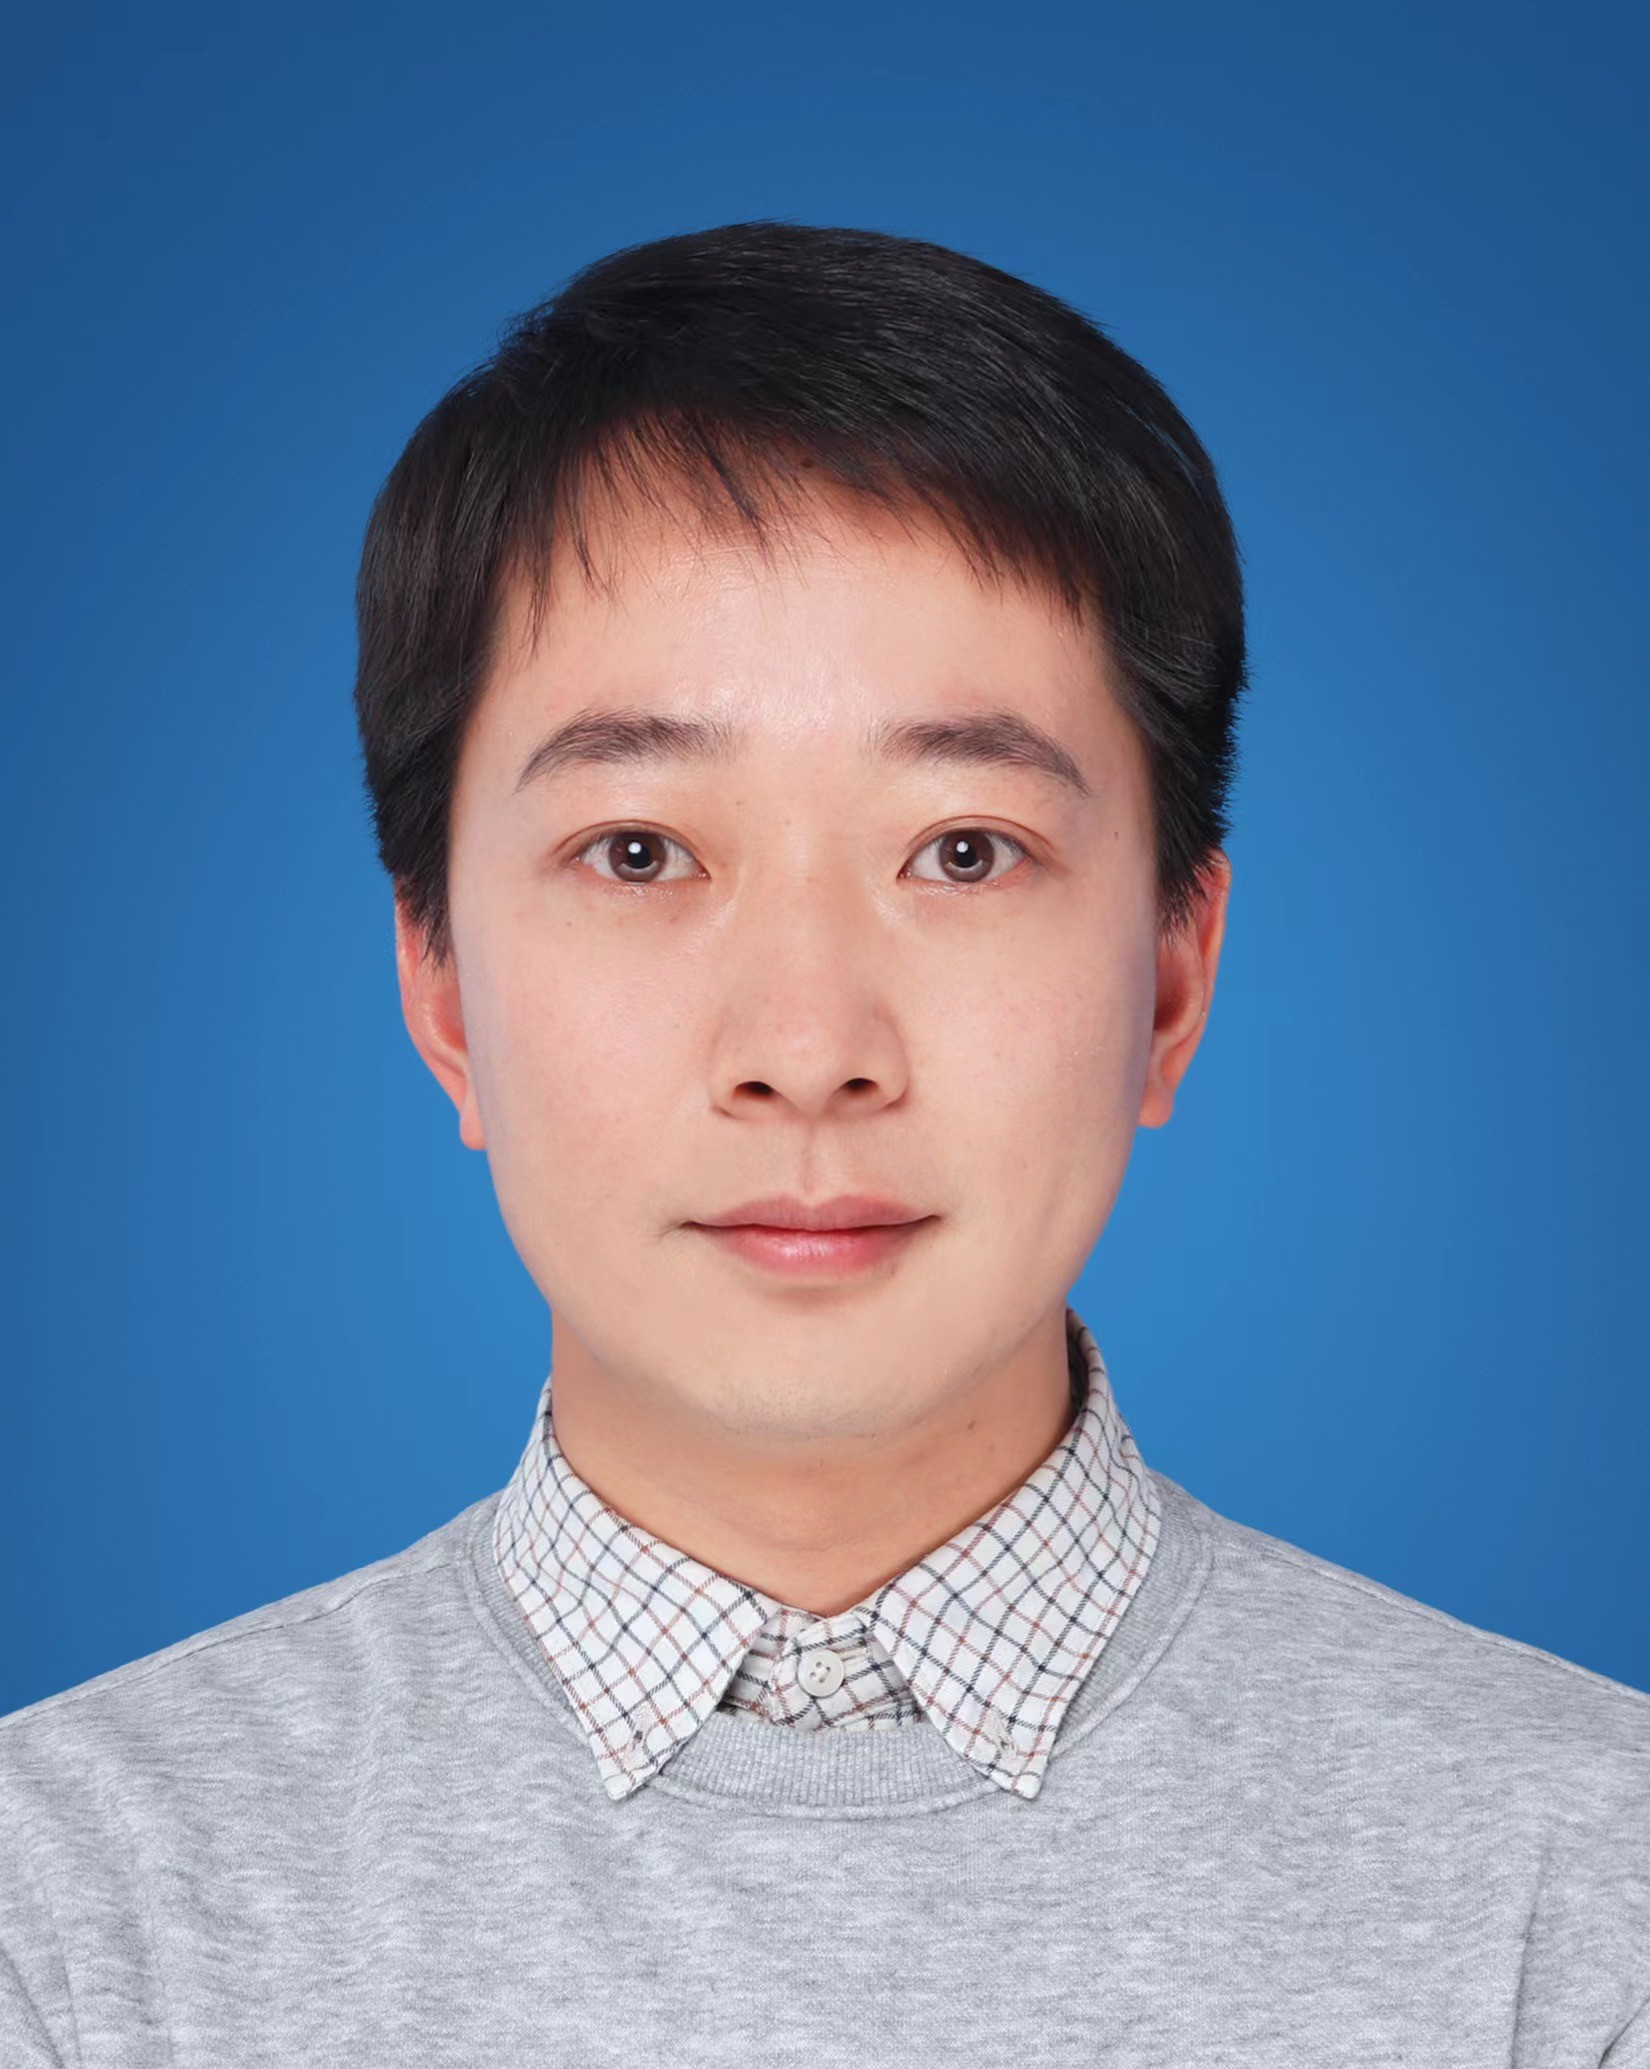
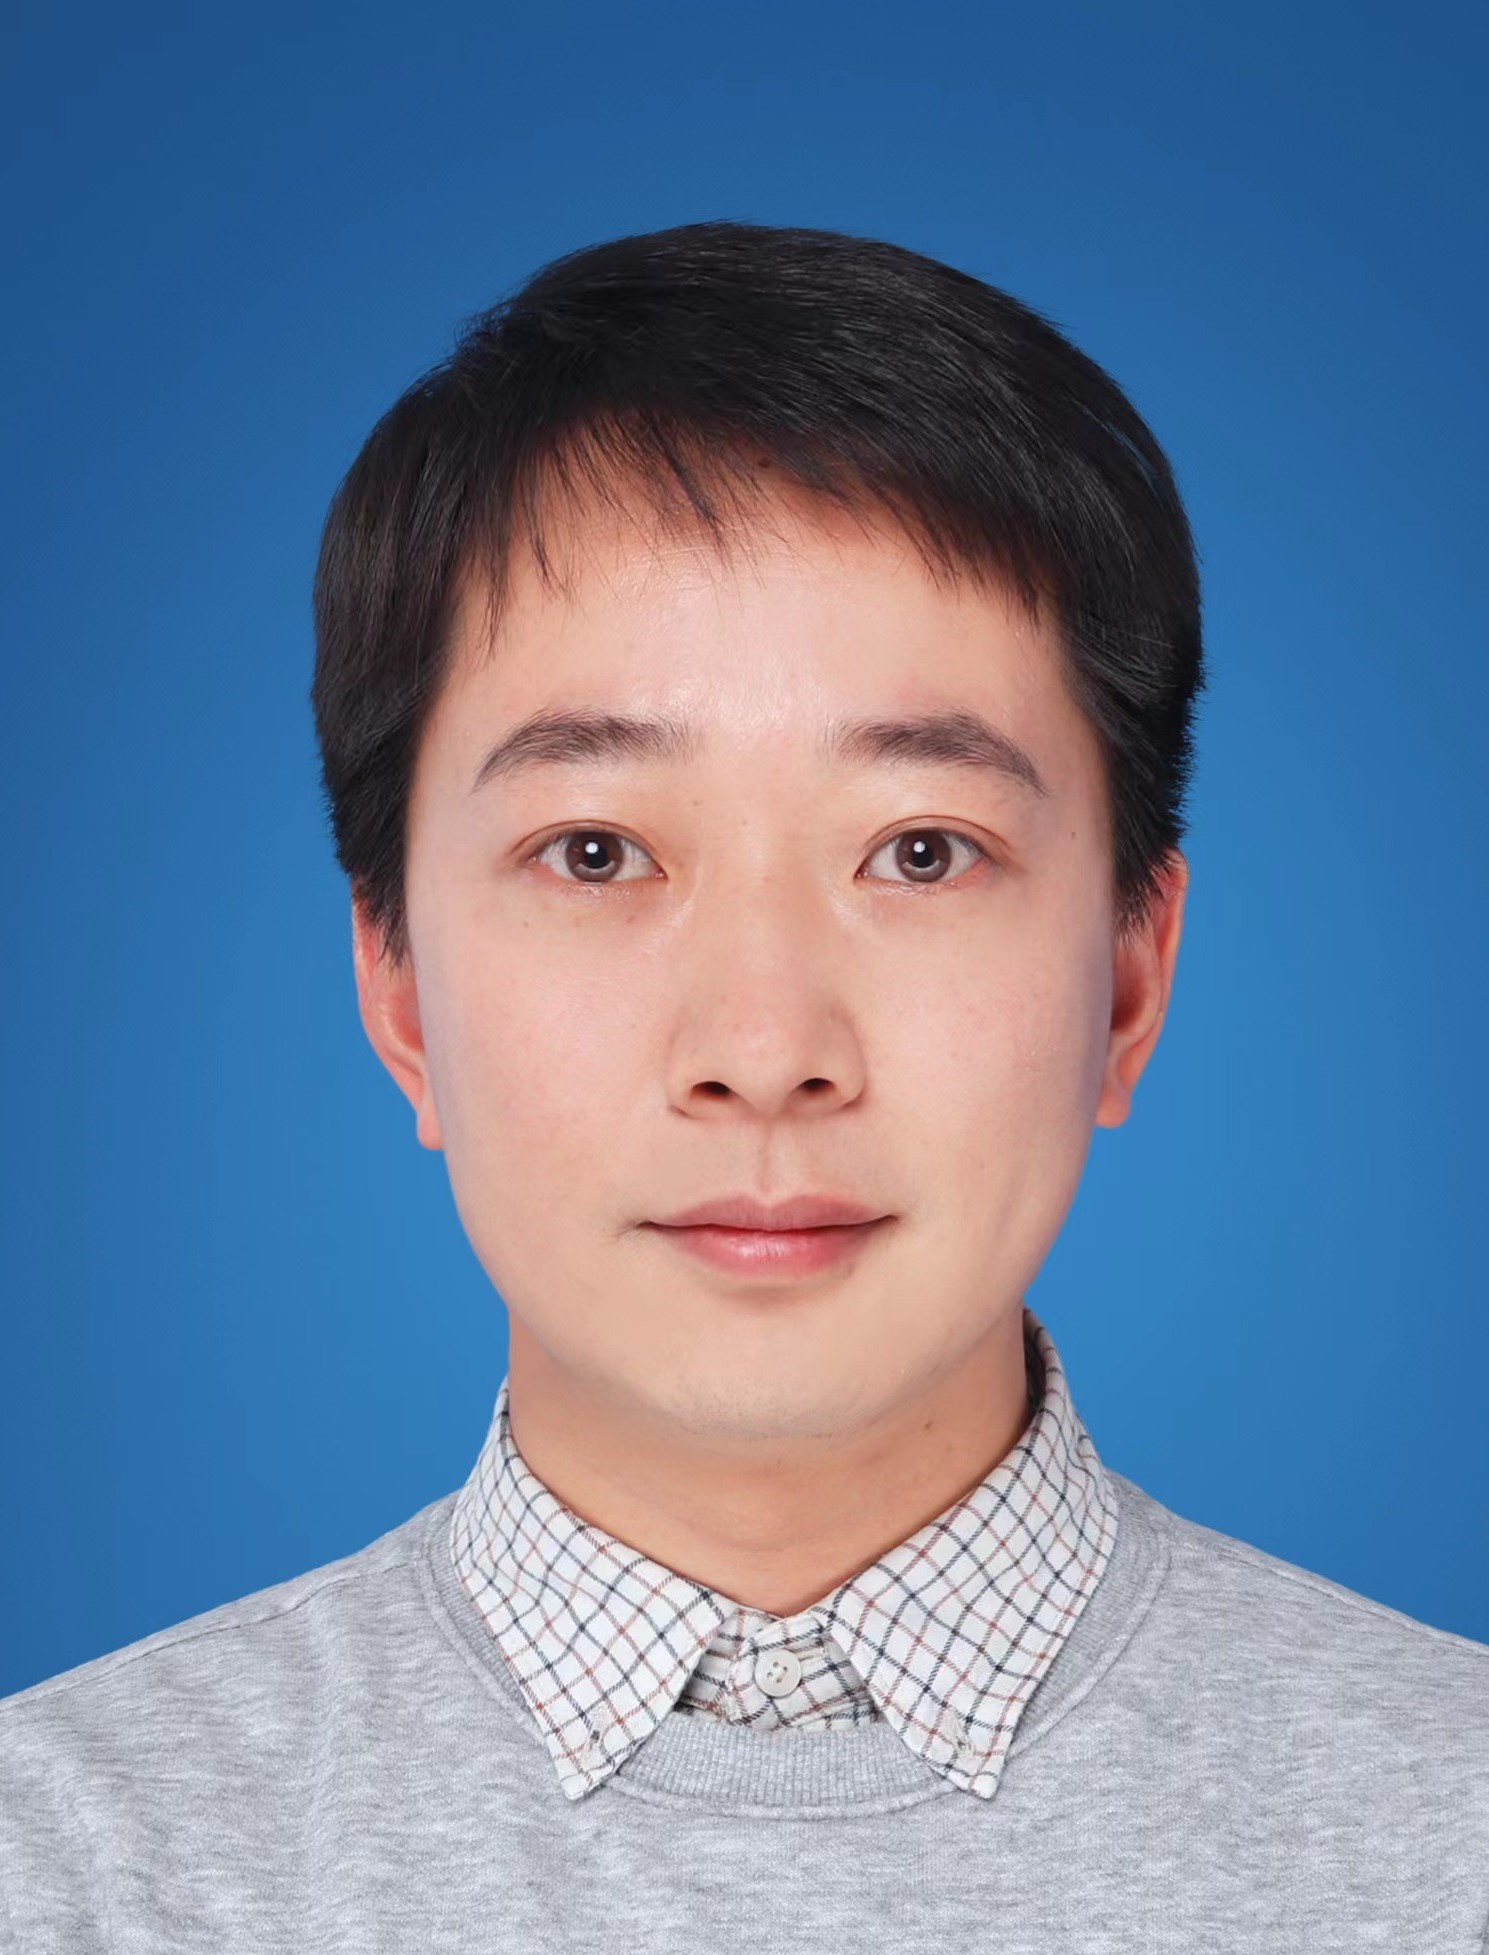
update

Changed region(s): [[0.0, 0.0936, 1.0, 1.0], [0.9886, 0.9049, 1.0, 0.9361]]

diff --git a/team/index.html b/team/index.html
@@ -522,7 +522,7 @@ nostrud exercitation ullamco laboris nisi ut aliquip ex ea commodo consequat.</p
 
 <div class="portrait-wrapper">
   <a href="/vsdl_dpc.github.io/members/tim-cheng.html" class="portrait" data-style="" aria-label="Kwang-Ting Cheng">
-    <img src="/vsdl_dpc.github.io/images/timcheng.jpg" class="portrait-image" alt="member portrait" loading="lazy" onerror="this.src = '/vsdl_dpc.github.io/images/fallback.svg'; this.onerror = null;">
+    <img src="/vsdl_dpc.github.io/images/timcheng.png" class="portrait-image" alt="member portrait" loading="lazy" onerror="this.src = '/vsdl_dpc.github.io/images/fallback.svg'; this.onerror = null;">
 
     
       <span class="portrait-text">
